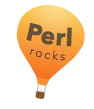
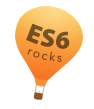
Use an ES6 image

diff --git a/index.js b/index.js
@@ -1,7 +1,12 @@
+import fortunePlugin from './plugins/fortune.js';
 import mojo from '@mojojs/core';
+import Path from '@mojojs/path';
 
 const app = mojo();
+app.plugin(fortunePlugin, {path: Path.currentFile().sibling('fortune.txt').toString()});
 
-app.get('/', ctx => ctx.redirectTo('https://github.com/mojolicious/mojo.js'));
+app.get('/', async ctx => {
+  await ctx.render({view: 'mojojs/index'});
+});
 
 app.start();

diff --git a/redirect.js b/redirect.js
@@ -1,0 +1,7 @@
+import mojo from '@mojojs/core';
+
+const app = mojo();
+
+app.get('/', ctx => ctx.redirectTo('https://github.com/mojolicious/mojo.js'));
+
+app.start();
